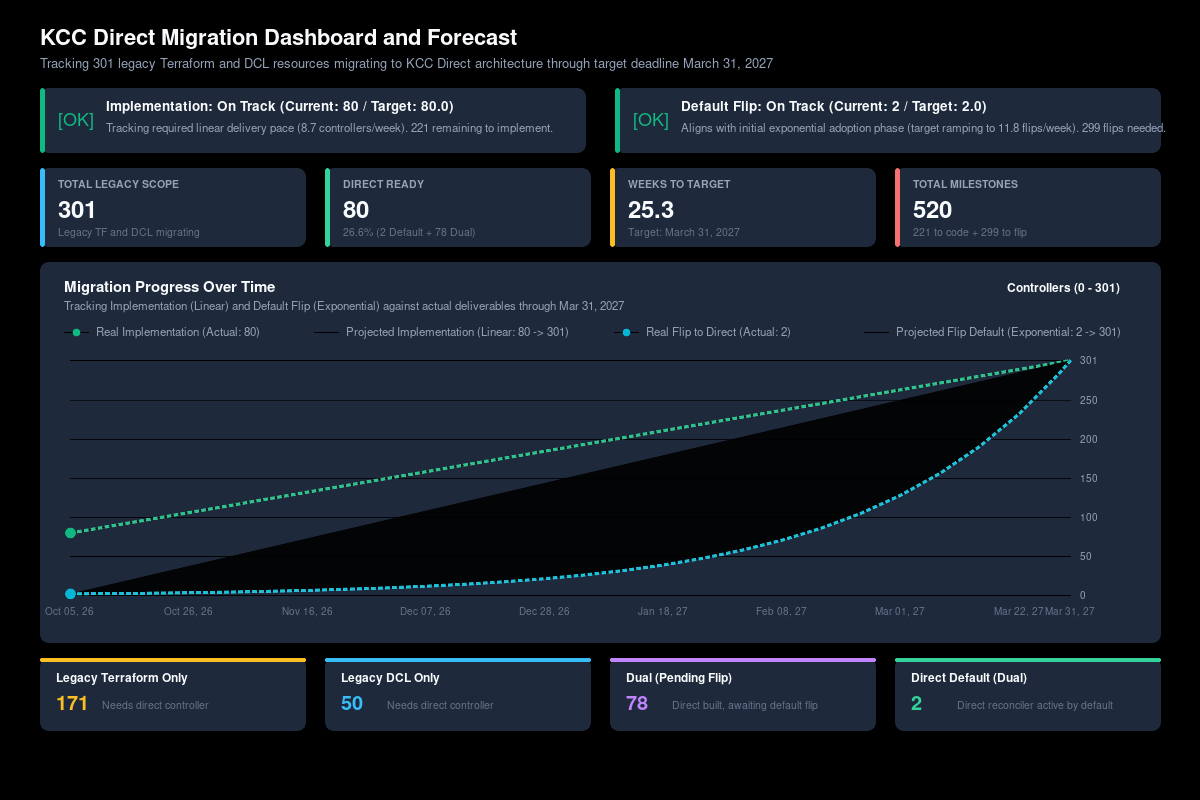
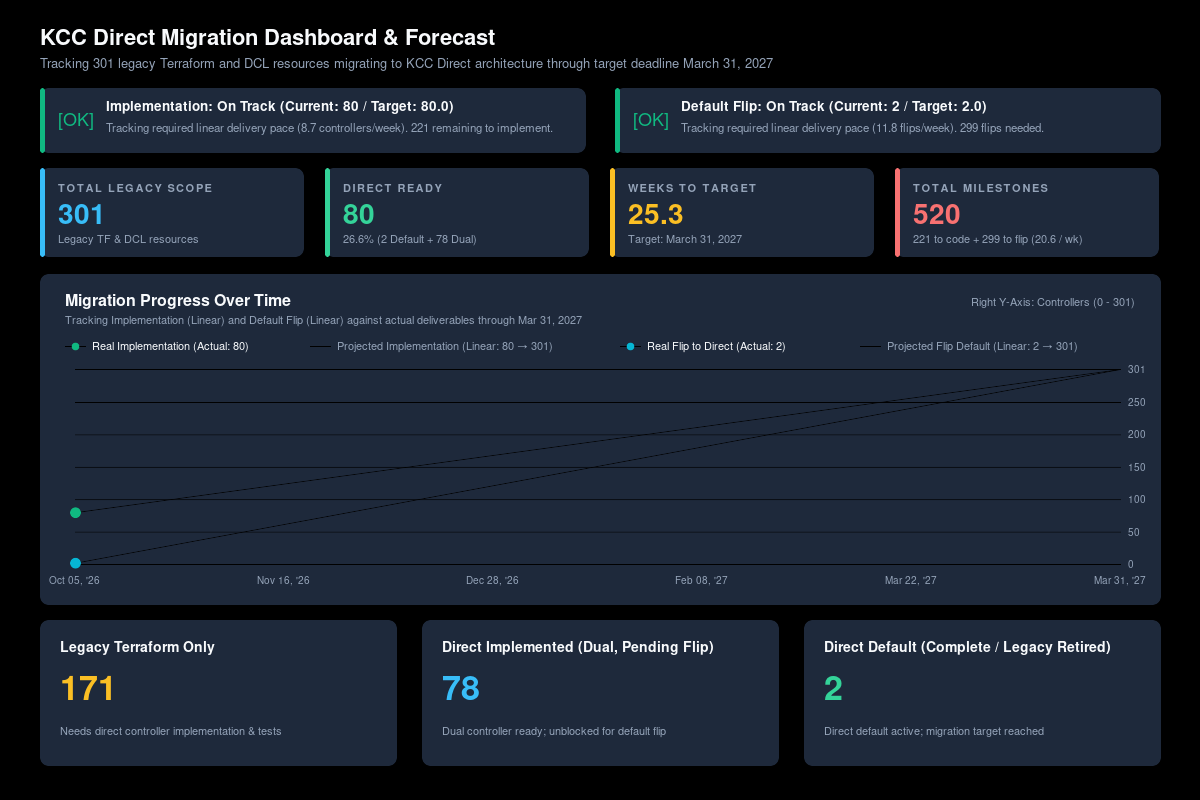
dev/migration-tracker: update projected default flip rate to linear

diff --git a/dev/migration-tracker/app.js b/dev/migration-tracker/app.js
@@ -643,7 +643,7 @@ function renderProgressTab() {
         if (curDate > targetDate) break;
         const weekFrac = (curDate - startDate) / (1000 * 60 * 60 * 24 * 7);
         const linImpl = startImpl + (weekFrac / totalWeeks) * (totalScope - startImpl);
-        const expFlip = startFlip * Math.pow(totalScope / startFlip, weekFrac / totalWeeks);
+        const linFlip = startFlip + (weekFrac / totalWeeks) * (totalScope - startFlip);
         const label = curDate.toLocaleDateString('en-US', { month: 'short', day: '2-digit', year: '2-digit' }).replace(',', " '");
         weekPoints.push({
             index: i,
@@ -651,7 +651,7 @@ function renderProgressTab() {
             date: curDate,
             label: label,
             linImpl: linImpl,
-            expFlip: expFlip,
+            linFlip: linFlip,
             x: getX(weekFrac)
         });
     }
@@ -665,7 +665,7 @@ function renderProgressTab() {
             date: targetDate,
             label: "Mar 31, '27",
             linImpl: totalScope,
-            expFlip: totalScope,
+            linFlip: totalScope,
             x: getX(totalWeeks)
         });
     }
@@ -680,7 +680,7 @@ function renderProgressTab() {
 
     // Projected Paths
     const projImplPath = weekPoints.map((pt, idx) => `${idx === 0 ? 'M' : 'L'} ${pt.x.toFixed(1)} ${getY(pt.linImpl).toFixed(1)}`).join(' ');
-    const projFlipPath = weekPoints.map((pt, idx) => `${idx === 0 ? 'M' : 'L'} ${pt.x.toFixed(1)} ${getY(pt.expFlip).toFixed(1)}`).join(' ');
+    const projFlipPath = weekPoints.map((pt, idx) => `${idx === 0 ? 'M' : 'L'} ${pt.x.toFixed(1)} ${getY(pt.linFlip).toFixed(1)}`).join(' ');
 
     // Actual Data Points
     const actualPoints = migrationHistory.map(item => {
@@ -691,7 +691,7 @@ function renderProgressTab() {
         const yFlip = getY(item.flipped);
 
         const projImpl = startImpl + (weekFrac / totalWeeks) * (totalScope - startImpl);
-        const projFlip = startFlip * Math.pow(totalScope / startFlip, weekFrac / totalWeeks);
+        const projFlip = startFlip + (weekFrac / totalWeeks) * (totalScope - startFlip);
 
         return {
             dateStr: item.date,
@@ -785,14 +785,14 @@ function renderProgressTab() {
         const curLabel = curDate.toLocaleDateString('en-US', { month: 'short', day: '2-digit', year: '2-digit' }).replace(',', " '");
 
         const curLinImpl = Math.min(totalScope, startImpl + (weekFrac / totalWeeks) * (totalScope - startImpl));
-        const curExpFlip = Math.min(totalScope, startFlip * Math.pow(totalScope / startFlip, weekFrac / totalWeeks));
+        const curLinFlip = Math.min(totalScope, startFlip + (weekFrac / totalWeeks) * (totalScope - startFlip));
 
         // Find if actual point exists near this week
         const matchActual = actualPoints.find(p => Math.abs(p.weekFrac - weekFrac) < 0.5);
 
         const xPos = svgMouseX;
         const yLin = getY(curLinImpl);
-        const yExp = getY(curExpFlip);
+        const yFlip = getY(curLinFlip);
 
         hoverLine.setAttribute('x1', xPos);
         hoverLine.setAttribute('x2', xPos);
@@ -803,7 +803,7 @@ function renderProgressTab() {
         hoverImpl.style.display = 'block';
 
         hoverFlip.setAttribute('cx', xPos);
-        hoverFlip.setAttribute('cy', yExp);
+        hoverFlip.setAttribute('cy', yFlip);
         hoverFlip.style.display = 'block';
 
         let html = `<div style="font-weight: 600; margin-bottom: 6px; border-bottom: 1px solid rgba(255,255,255,0.2); padding-bottom: 4px;">${curLabel} (W${weekFrac.toFixed(1)})</div>`;
@@ -812,7 +812,7 @@ function renderProgressTab() {
             html += `<div style="color: #06b6d4; font-weight: 600;">Real Flip: ${matchActual.flipped} <span style="font-size: 10px; color: ${matchActual.flipDelta >= 0 ? '#22d3ee' : '#f87171'};">(${matchActual.flipDelta >= 0 ? '+' : ''}${matchActual.flipDelta.toFixed(1)})</span></div>`;
         }
         html += `<div style="color: #34d399; margin-top: 4px;">Target Impl: ${curLinImpl.toFixed(1)}</div>`;
-        html += `<div style="color: #22d3ee;">Target Flip: ${curExpFlip.toFixed(1)}</div>`;
+        html += `<div style="color: #22d3ee;">Target Flip: ${curLinFlip.toFixed(1)}</div>`;
 
         tooltip.innerHTML = html;
         tooltip.style.display = 'block';
@@ -869,7 +869,7 @@ function updateAdvisories(latestActual) {
         flipCard.classList.add('ahead');
         flipIcon.textContent = '🚀';
         flipTitle.textContent = `Default Flip: Ahead of Schedule (+${latestActual.flipDelta.toFixed(1)} flips)`;
-        flipDesc.textContent = `Actual: ${latestActual.flipped} vs Target: ${latestActual.projFlip.toFixed(1)}. Early default flips exceeding exponential curve!`;
+        flipDesc.textContent = `Actual: ${latestActual.flipped} vs Target: ${latestActual.projFlip.toFixed(1)}. Pacing ahead of required 11.8/week run rate!`;
     } else if (latestActual.flipDelta < -0.5) {
         flipCard.classList.add('behind');
         flipIcon.textContent = '⚠';
@@ -879,7 +879,7 @@ function updateAdvisories(latestActual) {
         flipCard.classList.add('ontime');
         flipIcon.textContent = '✅';
         flipTitle.textContent = `Default Flip: On Track (Current: ${latestActual.flipped} / Target: ${latestActual.projFlip.toFixed(1)})`;
-        flipDesc.textContent = `Aligns with initial exponential adoption phase (target ramping to 11.8 flips/week). 299 flips needed.`;
+        flipDesc.textContent = `Tracking required linear delivery pace (11.8 flips/week). 299 flips needed.`;
     }
 }
 

diff --git a/dev/migration-tracker/index.html b/dev/migration-tracker/index.html
@@ -149,7 +149,7 @@
                         <div class="advisory-icon" id="advisory-flip-icon">⏱</div>
                         <div>
                             <div class="advisory-title" id="advisory-flip-title">Default Flip Progress: Evaluating...</div>
-                            <div class="advisory-detail" id="advisory-flip-desc">Comparing actual default flips against exponential adoption target.</div>
+                            <div class="advisory-detail" id="advisory-flip-desc">Comparing actual default flips against linear burnup target.</div>
                         </div>
                     </div>
                 </div>
@@ -191,7 +191,7 @@
                     <div class="chart-header-row">
                         <div>
                             <div class="chart-header-title">Migration Progress Over Time</div>
-                            <div class="chart-header-sub">Tracking Implementation (Linear) and Default Flip (Exponential) against actual deliverables through Mar 31, 2027</div>
+                            <div class="chart-header-sub">Tracking Implementation (Linear) and Default Flip (Linear) against actual deliverables through Mar 31, 2027</div>
                         </div>
                         <div class="chart-header-sub" style="font-weight: 600; color: var(--text-primary);">Right Y-Axis: Controllers (0 &ndash; 301)</div>
                     </div>
@@ -211,7 +211,7 @@
                         </div>
                         <div class="progress-legend-item">
                             <svg width="26" height="12" style="vertical-align: middle;"><line x1="1" y1="6" x2="25" y2="6" stroke="#22d3ee" stroke-width="2.5" stroke-dasharray="4,3" /></svg>
-                            <span>Projected Flip Default (Exponential: 2 &rarr; 301)</span>
+                            <span>Projected Flip Default (Linear: 2 &rarr; 301)</span>
                         </div>
                     </div>
 
